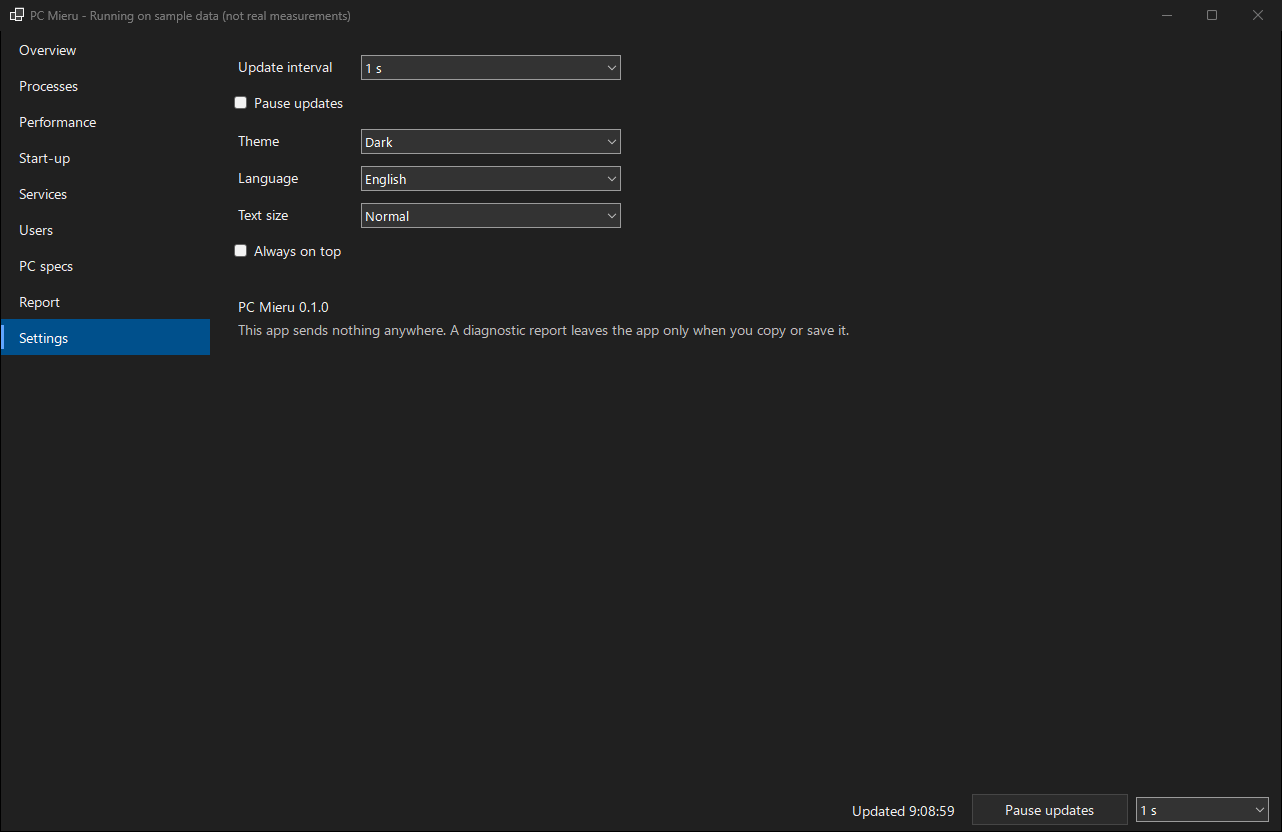
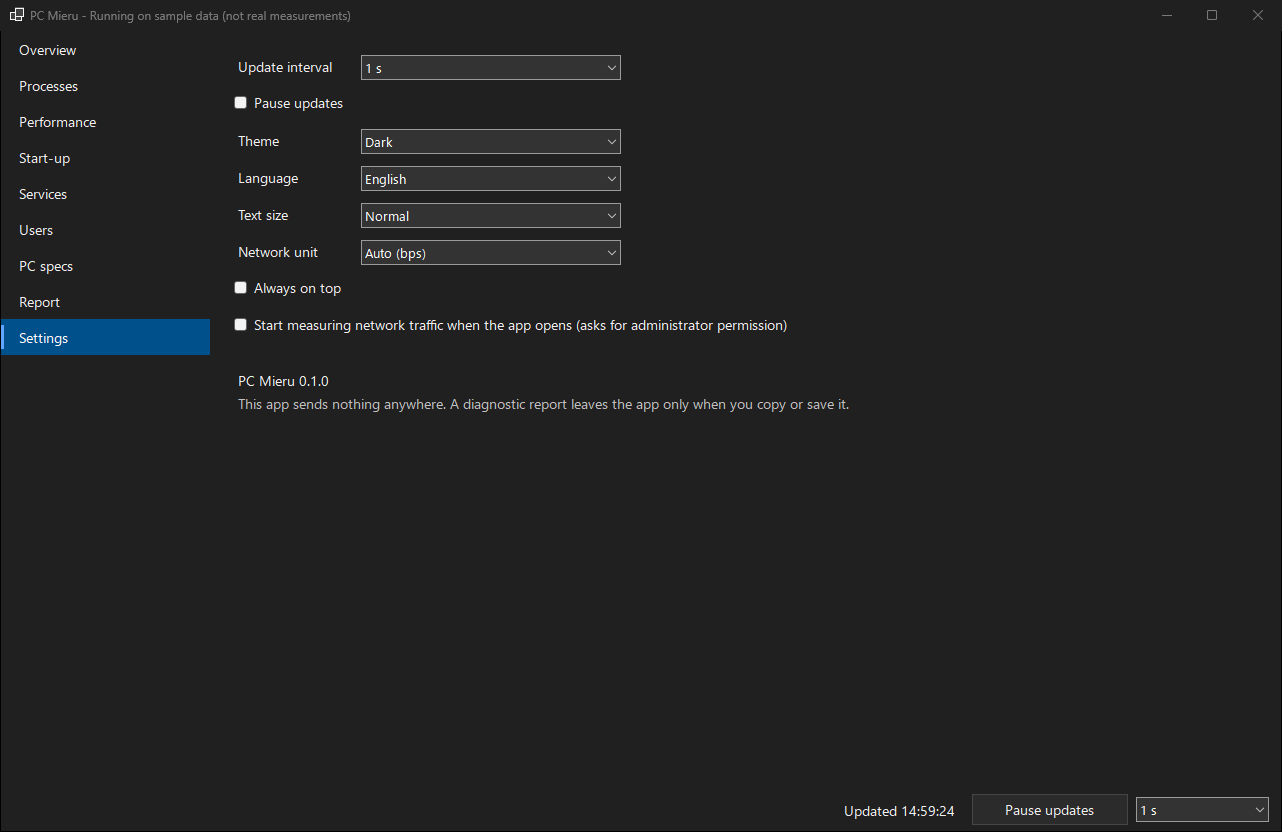
docs: GUI spec and screenshots for per-process network
SPEC section 5: process columns, meter button, detail pane, the network unit
and its settings. Screenshots regenerated for the pages that changed
(overview, performance, processes, settings) plus the new Performance
network panel; pages this feature does not touch are left as they were.

diff --git a/docs/SPEC.md b/docs/SPEC.md
@@ -77,13 +77,15 @@ Value<T> = { value?: T, status: "ok"|"unsupported"|"denied"|"timeout"|"error"|"g
 
 左に縦のナビ、右に中身。上に検索とメニュー（表示・間隔・テーマ・言語・常に手前）。
 
-1. **概要**（起動時の画面・初心者向け）: CPU／メモリ／GPU／ディスク／ネットワークのカード（今の値・小さなグラフ・温度があれば温度）。その下に「いま重いアプリ」上位 5（製品名で）。「気づいたこと」欄（§6 の観察）。
-2. **プロセス**: ツリー表示／一覧表示の切替。既定の列＝名前（製品名）・CPU・メモリ（プライベート作業セット）・I/O・GPU・状態（応答なし＝窓が `IsHungAppWindow`／中断＝全スレッドが Suspended）。列の追加＝PID・exe 名・ユーザー・優先度・スレッド・ハンドル・作業セット・コミット・起動時刻・コマンドライン・セッション・アーキテクチャ・効率モード。群の分け方は**独自の基準**（見える窓を持つ＝アプリ／Windows のフォルダの署名済み＝Windows／それ以外＝バックグラウンド）をヘルプに書き、タスクマネージャーと一致するとは称さない。
+1. **概要**（起動時の画面・初心者向け）: CPU／メモリ／GPU／ディスク／ネットワークのカード（今の値・小さなグラフ・温度があれば温度。ネットワークは送受信の合計で、書き方は下の「ネットワークの単位」に従う）。その下に「いま重いアプリ」上位 5（製品名で）。「気づいたこと」欄（§6 の観察）。
+2. **プロセス**: ツリー表示／一覧表示の切替。既定の列＝名前（製品名）・CPU・メモリ（プライベート作業セット）・ディスク・ネットワーク・GPU・状態（応答なし＝窓が `IsHungAppWindow`／中断＝全スレッドが Suspended）。列の追加＝PID・I/O の読み／書き・ネットワークの送信／受信（合計の列を送りと受けに分けたもの）・exe 名・ユーザー・優先度・スレッド・ハンドル・作業セット・コミット・起動時刻・コマンドライン・セッション・アーキテクチャ・効率モード。群の分け方は**独自の基準**（見える窓を持つ＝アプリ／Windows のフォルダの署名済み＝Windows／それ以外＝バックグラウンド）をヘルプに書き、タスクマネージャーと一致するとは称さない。
    上部に「新しいタスクを実行」（ShellExecute。管理者で、のチェックは Helper ではなく `runas` 動詞）。
    サービスを持つプロセス（svchost 等）は詳細ペインにサービス名を出し、サービスタブへ移れる（逆も）。
-   右の詳細ペイン: アイコン・製品名・説明・発行元・署名・パス・親・起動時刻・コマンドライン（折り畳み）・「これは何？」（§6 の既知の説明があれば）・操作ボタン。
+   プロセスごとの通信量（GUI 側）: 「ネットワーク」列は送信と受信の合計（Core の `NetSendBytesPerSec`／`NetReceiveBytesPerSec`、単位は B/s）。既定で表示（ディスクと GPU の間）、棒つき、並べ替えは降順が先で、生の値の合計で比べ、欠損は昇順でも降順でも最後。値が無い間は灰色の「-」を出し、セルの説明に理由（まだ計測していない／準備中／管理者の確認で許可されなかった／失敗／この PC では計測できない）を書く。列の見出しと「表示する列」の項目の説明に「TCP と UDP を、ループバックや VPN も含むすべてのアダプターで数えるので、パフォーマンスのアダプターごとの値とは合わないことがある」と書く。「送信」「受信」の列は既定で隠し、「表示する列」から出せる。すでに列を保存してある人には、ネットワーク列を 1 回だけ足す（`proc.cols.v`）。その後に隠せば隠れたまま。
+   計測は任意で、管理者の確認が 1 回出る（Core の `INetMeterControl`）。上部のボタン「通信量を計測」（盾つき）は Off／拒否／失敗のときに押せる。準備中は押せず「計測を準備中…」。計測中は「計測を止める」（盾なし）。この PC で計測できない（Unsupported）ときはボタンごと隠す（無効のボタンには説明が出ないため）。開始は UI スレッドの外で呼び、状態の変化は UI スレッドに戻して表示する。設定「起動時に通信量の計測を始める（管理者の確認が出ます）」（`net.meter.autostart`、既定オフ）をオンにすると、起動のたびに 1 回だけ開始する。
+   右の詳細ペイン: アイコン・製品名・説明・発行元・署名・パス・親・起動時刻・コマンドライン（折り畳み）・送信／受信（今の速さ。列と同じ単位と、値が無いときの扱い）・「これは何？」（§6 の既知の説明があれば）・操作ボタン。
    操作（右クリックと詳細ペイン）: 閉じる（窓があるときだけ。HWND→PID/ProcessKey を照合して `SendMessageTimeout(WM_CLOSE)`）・終了（TerminateProcess、確認あり）・ツリーごと終了（その時点の子孫の ProcessKey を全部確保し対象件数を出して確認・部分成功を出す）・優先度（realtime は出さない）・効率モード（`SetProcessInformation(ProcessPowerThrottling)` の EXECUTION_SPEED を Control/State 両方＋`IDLE_PRIORITY_CLASS`。変更前の優先度と mask を覚え、解除で戻す。Win10 では「EcoQoS」と書かず「低 QoS」）・CPU の割り当て（v1 は単一 group 内の hard affinity だけ）・ファイルの場所を開く・プロパティ・Web で検索（既定のブラウザ。プロセス名だけを渡す）・情報をコピー。
-3. **パフォーマンス**: CPU（全体／コアごと切替・クロック・コア数・キャッシュ）・メモリ（使用・コミット・キャッシュ・スロット使用数・速度）・各ディスク（使用率・読み書き速度・応答時間）・各 NIC（送受信）・各 GPU（エンジン別・専用／共有メモリ・温度・電力）。履歴は 60 点（間隔×60）のリングバッファ。
+3. **パフォーマンス**: CPU（全体／コアごと切替・クロック・コア数・キャッシュ）・メモリ（使用・コミット・キャッシュ・スロット使用数・速度）・各ディスク（使用率・読み書き速度・応答時間）・各 NIC（送受信。縦軸・見出し・統計は「ネットワークの単位」に従い、リンク速度だけは常に bit）・各 GPU（エンジン別・専用／共有メモリ・温度・電力）。履歴は 60 点（間隔×60）のリングバッファ（ネットワークの履歴は B/s のまま持ち、単位を変えると描き直すだけ）。
 4. **スタートアップ**: 登録先ごとの provider。
    - 切り替えできる（v1）: HKCU `Run`→承認先 HKCU `…\Explorer\StartupApproved\Run`／HKLM `Run`（64bit view）→HKLM `…\StartupApproved\Run`／HKLM `Run`（32bit view＝WOW6432Node）→HKLM `…\StartupApproved\Run32`／ユーザーと共通のスタートアップフォルダ（Known Folder API）→各 scope の `StartupFolder`（値名はファイル名）。HKCU の Run は view 共有なので 2 回数えない。
    - 値は REG_BINARY 12 バイト（先頭 DWORD が状態、後ろ 8 バイトが無効にした FILETIME）。**有効＝2 か 6、無効＝3 か 7**。未知の値・型は表示だけで書き換えない。書くときは元の型・全バイト・「値が無かった」ことを記録し、戻せるようにする。無効化は先頭を 3、FILETIME を今に。有効化は 2 と 0。
@@ -96,7 +98,8 @@ Value<T> = { value?: T, status: "ok"|"unsupported"|"denied"|"timeout"|"error"|"g
 
 - テーマ: ライト／ダーク／Windows に従う。高 DPI（PerMonitorV2）。キーボードだけで全部操作できる（Del＝終了の確認、Ctrl+F＝検索、F5＝今すぐ更新、Space＝一時停止）。
 - 色だけに頼らない（「高負荷」「取得できません」を文字でも出す）。ゲーム中の GPU 100% を異常扱いしない。「高負荷」と「故障の兆候」を分ける。
-- 設定は `%APPDATA%\PCMieru\settings.json`（列幅・並び・タブ・間隔・テーマ・言語）。
+- 設定は `%APPDATA%\PCMieru\settings.json`（列幅・並び・タブ・間隔・テーマ・言語・ネットワークの単位・通信量の計測を起動時に始めるか）。
+- ネットワークの単位（`net.unit`）: 4 つから選ぶ。「自動（bps）」（既定）・「Mbps 固定」・「自動（B/s）」・「MB/s 固定」（英語は Auto (bps)／Mbps (fixed)／Auto (B/s)／MB/s (fixed)）。10 進（1 kbps＝1000 bps、1 Mbps＝1,000,000 bps）で、バイトは 1 B＝8 bit、MB/s も 1,000,000 B/s。自動は有効数字 3 桁で bps→kbps→Mbps→Gbps（B/s→kB/s→MB/s→GB/s）と単位を替え、固定は小数 2 桁（0 でないのに 0.01 に満たない値は「<0.01 Mbps」）。ディスクとメモリの 1024 進の表記は変えない。変更は設定画面とプロセス画面の「表示する列」メニューのどちらでもでき、互いに同期し、開いている画面（プロセス・パフォーマンス・概要）はその場で書き直す。
 
 ## 6. 観察（「なぜ重い？」）と「これは何？」
 
